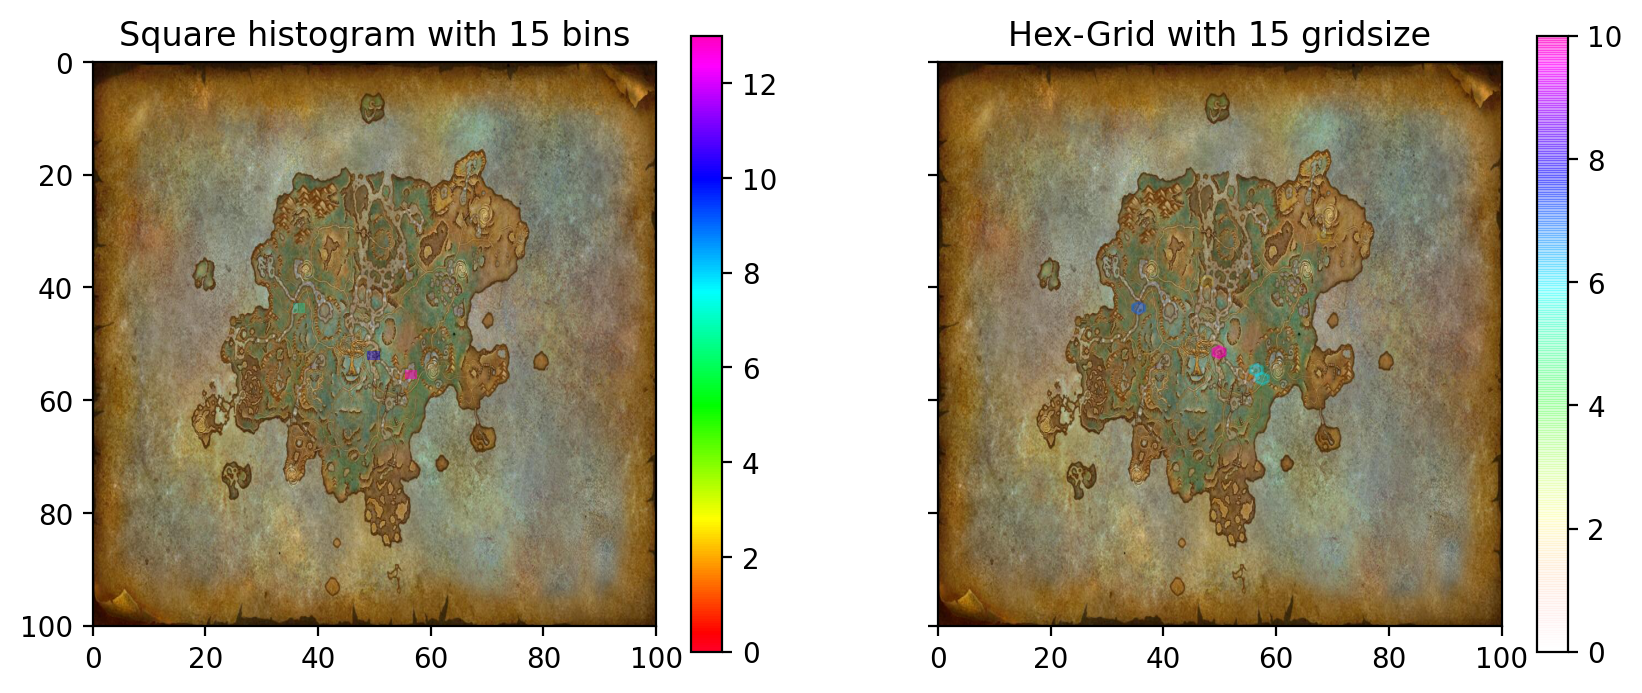
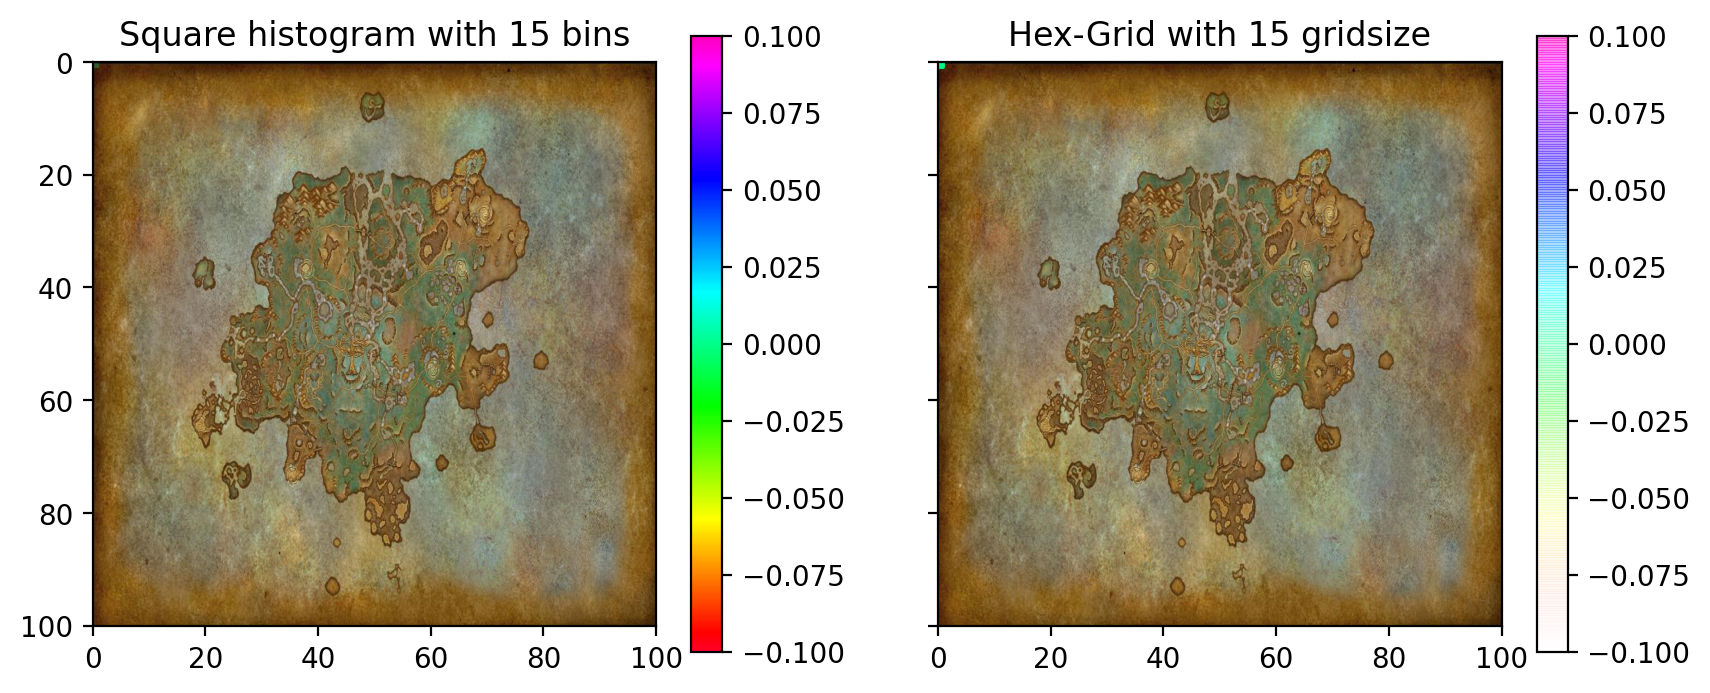
Update to use live wowhead data

diff --git a/NodeData.py b/NodeData.py
@@ -9,15 +9,23 @@ from operator import attrgetter
 from enum import Enum, auto
 
 
+class WowheadDatasource(Enum):
+   LIVE = 'www'
+   PTR = 'ptr'
+   BETA = 'shadowlands'
+
+
+current_source = WowheadDatasource.LIVE
+
+
 node_db = {}
 fish_db = {}
 map_db = {
-    11510:"Ardenweald",
-    10534:"Bastion",
-    11462:"Maldraxxus",
-    10413:"Revendreth",
-    11400:"The Maw",
-    13367:"Queen's Conservatory"
+    11510:Map("Ardenweald"),
+    10534:Map("Bastion"),
+    11462:Map("Maldraxxus"),
+    10413:Map("Revendreth"),
+    11400:Map("The Maw")
 }
 
 
@@ -38,13 +46,15 @@ subclass_object_lookup = {
 
 def reset_nodes():
     global map_db, node_db, fish_db
-    map_db.clear()
+    for m in map_db.values():
+        m.clear()
+    #map_db.clear()
     node_db.clear()
     fish_db.clear()
 
 
 def make_soup_instance(type_name, obj_id) -> BeautifulSoup:
-    url = f"https://shadowlands.wowhead.com/{type_name}={obj_id}"
+    url = f"https://{current_source.value}.wowhead.com/{type_name}={obj_id}"
     hdr = {
         'User-Agent': 'Mozilla/5.0',
         'Accept': 'text/html,application/xhtml+xml,application/xml;q=0.9,*/*;q=0.8'}

diff --git a/main.py b/main.py
@@ -187,7 +187,7 @@ def parse_tag(tags: List[str], datasource: ZamimgDatasource):
 
 
 if __name__ == "__main__":
-    source = ZamimgDatasource.BETA
+    source = ZamimgDatasource.RETAIL
     parse_tag(['herbs'], source)
     parse_tag(['mines'], source)
     parse_tag(['herbs', 'mines'], source)

diff --git a/NodeClasses.py b/NodeClasses.py
@@ -25,4 +25,7 @@ class Map(object):
         data['Total'] = sum(count for count in data.values())
         return data
 
+    def clear(self):
+        self.node_set.clear()
+
 
